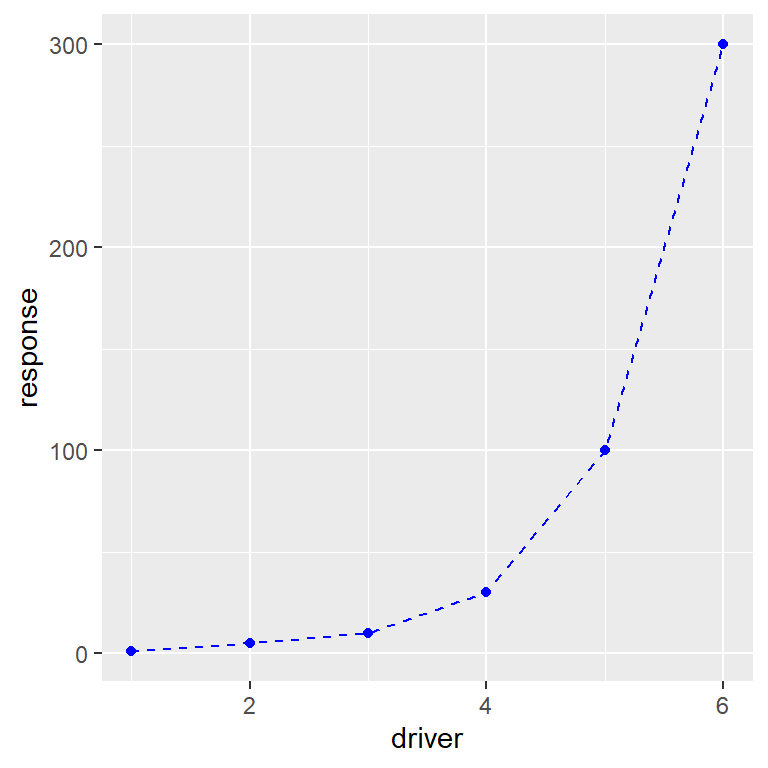
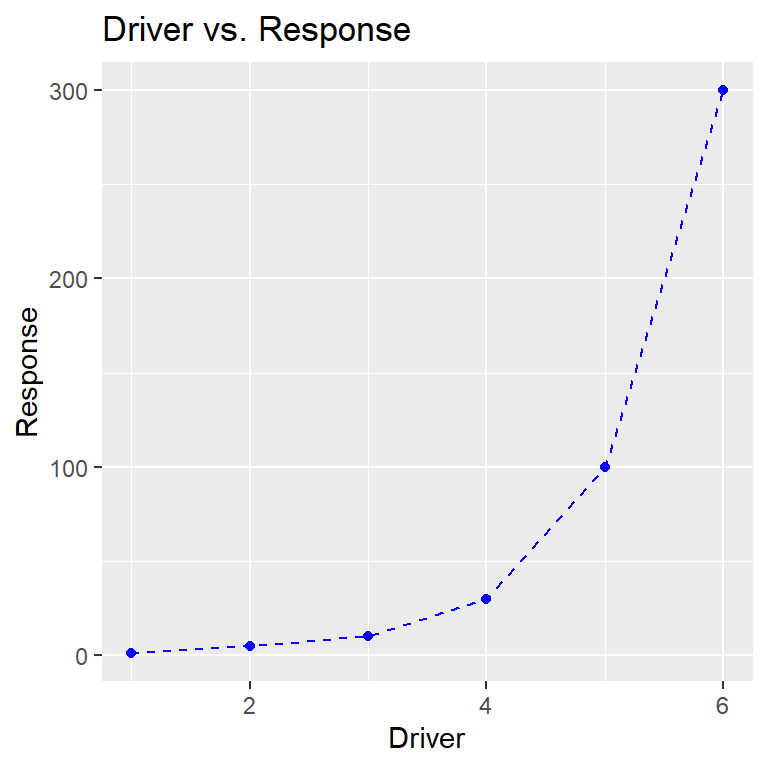
latest build.

diff --git a/docs/working-with-popular-packages.html b/docs/working-with-popular-packages.html
@@ -372,7 +372,7 @@ that is more clear and has far more examples <a href="https://ggplot2.tidyverse.
 <span id="cb565-5"><a href="working-with-popular-packages.html#cb565-5"></a><span class="co"># Make a scatter plot with x and y </span></span>
 <span id="cb565-6"><a href="working-with-popular-packages.html#cb565-6"></a><span class="kw">ggplot</span>(dat, <span class="kw">aes</span>(<span class="dt">x =</span> driver, <span class="dt">y =</span> response)) <span class="op">+</span><span class="st"> </span></span>
 <span id="cb565-7"><a href="working-with-popular-packages.html#cb565-7"></a><span class="st">  </span><span class="kw">geom_point</span>()</span></code></pre></div>
-<p><img src="Module1_files/figure-html/unnamed-chunk-560-1.png" width="384" style="display: block; margin: auto;" /></p>
+<p><img src="Module1_files/figure-html/unnamed-chunk-559-1.png" width="384" style="display: block; margin: auto;" /></p>
 <p>In the above command <code>ggplot2</code> uses the data frame <code>dat</code> and the aesthetics (<code>aes</code>)
 argument to map which columns go where. In this case we want the driver variable
 to be on the x-axis and the response variable to be on the y-axis. Finally
@@ -386,7 +386,7 @@ Note: <code>ggplot2</code> connects a series of arguments using <code>+</code> o
 <div class="sourceCode" id="cb566"><pre class="sourceCode r chunk-style"><code class="sourceCode r"><span id="cb566-1"><a href="working-with-popular-packages.html#cb566-1"></a><span class="kw">ggplot</span>(dat, <span class="kw">aes</span>(<span class="dt">x =</span> driver, <span class="dt">y =</span> response)) <span class="op">+</span><span class="st"> </span></span>
 <span id="cb566-2"><a href="working-with-popular-packages.html#cb566-2"></a><span class="st">  </span><span class="kw">geom_point</span>() <span class="op">+</span><span class="st"> </span></span>
 <span id="cb566-3"><a href="working-with-popular-packages.html#cb566-3"></a><span class="st">  </span><span class="kw">geom_line</span>()  <span class="co"># add lines to connect the points</span></span></code></pre></div>
-<img src="Module1_files/figure-html/unnamed-chunk-562-1.png" width="384" style="display: block; margin: auto;" />
+<img src="Module1_files/figure-html/unnamed-chunk-561-1.png" width="384" style="display: block; margin: auto;" />
 <div class="bonus">
 <p>
 The <code>geom</code> prefix on the <code>geom_point</code> and <code>geom_line</code> functions stands for <em>geometry</em>. <code>ggplot2</code> comes with many different types of geometries (see <a href="https://ggplot2.tidyverse.org/reference/">here</a> ), and some folks have created their <em>own</em> packages to add <em>even more</em> options!
@@ -396,13 +396,13 @@ The <code>geom</code> prefix on the <code>geom_point</code> and <code>geom_line<
 <div class="sourceCode" id="cb567"><pre class="sourceCode r chunk-style"><code class="sourceCode r"><span id="cb567-1"><a href="working-with-popular-packages.html#cb567-1"></a><span class="kw">ggplot</span>(dat, <span class="kw">aes</span>(<span class="dt">x =</span> driver, <span class="dt">y =</span> response)) <span class="op">+</span><span class="st"> </span></span>
 <span id="cb567-2"><a href="working-with-popular-packages.html#cb567-2"></a><span class="st">  </span><span class="kw">geom_point</span>(<span class="dt">color=</span><span class="st">&quot;blue&quot;</span>) <span class="op">+</span><span class="st">                   </span><span class="co"># make the points blue</span></span>
 <span id="cb567-3"><a href="working-with-popular-packages.html#cb567-3"></a><span class="st">  </span><span class="kw">geom_line</span>(<span class="dt">linetype=</span><span class="st">&quot;dashed&quot;</span>, <span class="dt">color=</span><span class="st">&quot;blue&quot;</span>)   <span class="co"># make the lines dashed and blue</span></span></code></pre></div>
-<p><img src="Module1_files/figure-html/unnamed-chunk-564-1.png" width="384" style="display: block; margin: auto;" />
+<p><img src="Module1_files/figure-html/unnamed-chunk-563-1.png" width="384" style="display: block; margin: auto;" />
 We can add a title and axis labels using the <code>labs</code> function:</p>
 <div class="sourceCode" id="cb568"><pre class="sourceCode r chunk-style"><code class="sourceCode r"><span id="cb568-1"><a href="working-with-popular-packages.html#cb568-1"></a><span class="kw">ggplot</span>(dat, <span class="kw">aes</span>(<span class="dt">x =</span> driver, <span class="dt">y =</span> response)) <span class="op">+</span><span class="st"> </span></span>
 <span id="cb568-2"><a href="working-with-popular-packages.html#cb568-2"></a><span class="st">  </span><span class="kw">geom_point</span>(<span class="dt">color=</span><span class="st">&quot;blue&quot;</span>) <span class="op">+</span><span class="st"> </span></span>
 <span id="cb568-3"><a href="working-with-popular-packages.html#cb568-3"></a><span class="st">  </span><span class="kw">geom_line</span>(<span class="dt">linetype=</span><span class="st">&quot;dashed&quot;</span>, <span class="dt">color=</span><span class="st">&quot;blue&quot;</span>) <span class="op">+</span><span class="st"> </span></span>
 <span id="cb568-4"><a href="working-with-popular-packages.html#cb568-4"></a><span class="st">  </span><span class="kw">labs</span>(<span class="dt">title=</span><span class="st">&quot;Driver vs. Response&quot;</span>, <span class="dt">x=</span><span class="st">&quot;Driver&quot;</span>, <span class="dt">y=</span><span class="st">&quot;Response&quot;</span>)   <span class="co"># add labels to the plot</span></span></code></pre></div>
-<p><img src="Module1_files/figure-html/unnamed-chunk-565-1.png" width="384" style="display: block; margin: auto;" /></p>
+<p><img src="Module1_files/figure-html/unnamed-chunk-564-1.png" width="384" style="display: block; margin: auto;" /></p>
 <p>Finally, we can use one of the included <code>ggplot2</code> themes to change how the plot looks, using the <code>theme_set</code> function:</p>
 <div class="sourceCode" id="cb569"><pre class="sourceCode r chunk-style"><code class="sourceCode r"><span id="cb569-1"><a href="working-with-popular-packages.html#cb569-1"></a><span class="kw">theme_set</span>(<span class="kw">theme_minimal</span>())   <span class="co"># change the theme</span></span>
 <span id="cb569-2"><a href="working-with-popular-packages.html#cb569-2"></a></span>
@@ -410,7 +410,7 @@ We can add a title and axis labels using the <code>labs</code> function:</p>
 <span id="cb569-4"><a href="working-with-popular-packages.html#cb569-4"></a><span class="st">  </span><span class="kw">geom_point</span>(<span class="dt">color=</span><span class="st">&quot;blue&quot;</span>) <span class="op">+</span><span class="st"> </span></span>
 <span id="cb569-5"><a href="working-with-popular-packages.html#cb569-5"></a><span class="st">  </span><span class="kw">geom_line</span>(<span class="dt">linetype=</span><span class="st">&quot;dashed&quot;</span>, <span class="dt">color=</span><span class="st">&quot;blue&quot;</span>) <span class="op">+</span><span class="st"> </span></span>
 <span id="cb569-6"><a href="working-with-popular-packages.html#cb569-6"></a><span class="st">  </span><span class="kw">labs</span>(<span class="dt">title=</span><span class="st">&quot;Driver vs. Response&quot;</span>, <span class="dt">x=</span><span class="st">&quot;Driver&quot;</span>, <span class="dt">y=</span><span class="st">&quot;Response&quot;</span>)</span></code></pre></div>
-<p><img src="Module1_files/figure-html/unnamed-chunk-566-1.png" width="384" style="display: block; margin: auto;" /></p>
+<p><img src="Module1_files/figure-html/unnamed-chunk-565-1.png" width="384" style="display: block; margin: auto;" /></p>
 <p>Here’s another example using the <code>mtcars</code> data frame, where we color the points based on their fuel economy (<em>mpg</em>) and annotate a few cars.</p>
 <div class="sourceCode" id="cb570"><pre class="sourceCode r chunk-style"><code class="sourceCode r"><span id="cb570-1"><a href="working-with-popular-packages.html#cb570-1"></a>mtcars<span class="op">$</span>car &lt;-<span class="st"> </span><span class="kw">row.names</span>(mtcars)  <span class="co"># turn row names into a column so we can label with them</span></span>
 <span id="cb570-2"><a href="working-with-popular-packages.html#cb570-2"></a></span>
@@ -419,7 +419,7 @@ We can add a title and axis labels using the <code>labs</code> function:</p>
 <span id="cb570-5"><a href="working-with-popular-packages.html#cb570-5"></a><span class="st">  </span><span class="kw">geom_text</span>(<span class="dt">color=</span><span class="st">&quot;black&quot;</span>, <span class="dt">hjust=</span><span class="dv">0</span>, <span class="dt">nudge_x=</span><span class="dv">5</span>, <span class="dt">alpha=</span><span class="fl">0.8</span>, <span class="dt">size=</span><span class="dv">2</span>) <span class="op">+</span><span class="st">   </span><span class="co"># annotate each car</span></span>
 <span id="cb570-6"><a href="working-with-popular-packages.html#cb570-6"></a><span class="st">  </span><span class="kw">scale_color_viridis_c</span>(<span class="dt">option=</span><span class="st">&quot;D&quot;</span>) <span class="op">+</span><span class="st">                                 </span><span class="co"># change color scale to use</span></span>
 <span id="cb570-7"><a href="working-with-popular-packages.html#cb570-7"></a><span class="st">  </span><span class="kw">labs</span>(<span class="dt">title=</span><span class="st">&quot;Motor Trend Car Comparison&quot;</span>, <span class="dt">x=</span><span class="st">&quot;Horsepower&quot;</span>, <span class="dt">y=</span><span class="st">&quot;Displacement&quot;</span>, <span class="dt">color=</span><span class="st">&quot;MPG&quot;</span>)</span></code></pre></div>
-<p><img src="Module1_files/figure-html/unnamed-chunk-567-1.png" width="768" style="display: block; margin: auto;" /></p>
+<p><img src="Module1_files/figure-html/unnamed-chunk-566-1.png" width="768" style="display: block; margin: auto;" /></p>
 <p>This is only scratching the surface of what <code>ggplot2</code> can do, but hopefully this introduction is enough to hint at the possibilities.
 You can find many more examples at <a href="https://www.r-graph-gallery.com/">The R Graph Gallery</a>.</p>
 <div class="progress">

diff --git a/docs/writing-functions.html b/docs/writing-functions.html
@@ -378,7 +378,7 @@ Here’s another example, the <code>mean</code> function:</p>
 <span id="cb509-2"><a href="writing-functions.html#cb509-2"></a>mean</span></code></pre></div>
 <pre class="output-style"><code>function (x, ...) 
 UseMethod(&quot;mean&quot;)
-&lt;bytecode: 0x0000000016632e30&gt;
+&lt;bytecode: 0x0000000016622e30&gt;
 &lt;environment: namespace:base&gt;</code></pre>
 <p>This example doesn’t seem to have as much R code in it, so where is the code for this function?
 The answer is that both <code>sort</code> and <code>mean</code> (and many other R functions) are written in a <em>different</em> programming language, C, which isn’t human readable once it’s compiled.
@@ -499,7 +499,7 @@ Here’s a barplot for Colorado in the 45-54 age group:</p>
 <span id="cb531-6"><a href="writing-functions.html#cb531-6"></a>        <span class="dt">names.arg=</span>covid2<span class="op">$</span>Sex,    <span class="co"># specify bar names</span></span>
 <span id="cb531-7"><a href="writing-functions.html#cb531-7"></a>        <span class="dt">main=</span><span class="st">&quot;Sex Comparison: Colorado 45-54 years&quot;</span>,  <span class="co"># title</span></span>
 <span id="cb531-8"><a href="writing-functions.html#cb531-8"></a>        <span class="dt">ylab=</span><span class="st">&quot;COVID-19 Deaths&quot;</span>)  <span class="co"># y label</span></span></code></pre></div>
-<p><img src="Module1_files/figure-html/unnamed-chunk-529-1.png" width="576" style="display: block; margin: auto;" /></p>
+<p><img src="Module1_files/figure-html/unnamed-chunk-528-1.png" width="576" style="display: block; margin: auto;" /></p>
 <p>Suppose we wanted to view this information for more states and age groups.
 Rather than repeat the above code each time, let’s put it in a function:</p>
 <div class="sourceCode" id="cb532"><pre class="sourceCode r chunk-style"><code class="sourceCode r"><span id="cb532-1"><a href="writing-functions.html#cb532-1"></a><span class="co"># create a function called plot_fm with two arguments: state and ages</span></span>
@@ -513,13 +513,13 @@ Rather than repeat the above code each time, let’s put it in a function:</p>
 <span id="cb532-9"><a href="writing-functions.html#cb532-9"></a>}</span></code></pre></div>
 <p>Now let’s try out the code on a few states and age groups:</p>
 <div class="sourceCode" id="cb533"><pre class="sourceCode r chunk-style"><code class="sourceCode r"><span id="cb533-1"><a href="writing-functions.html#cb533-1"></a><span class="kw">plot_fm</span>(<span class="st">&quot;Colorado&quot;</span>, <span class="st">&quot;45-54 years&quot;</span>)</span></code></pre></div>
-<p><img src="Module1_files/figure-html/unnamed-chunk-532-1.png" width="576" style="display: block; margin: auto;" /></p>
+<p><img src="Module1_files/figure-html/unnamed-chunk-531-1.png" width="576" style="display: block; margin: auto;" /></p>
 <pre class="output-style"><code>NULL</code></pre>
 <div class="sourceCode" id="cb535"><pre class="sourceCode r chunk-style"><code class="sourceCode r"><span id="cb535-1"><a href="writing-functions.html#cb535-1"></a><span class="kw">plot_fm</span>(<span class="st">&quot;Texas&quot;</span>, <span class="st">&quot;65-74 years&quot;</span>)</span></code></pre></div>
-<p><img src="Module1_files/figure-html/unnamed-chunk-533-1.png" width="576" style="display: block; margin: auto;" /></p>
+<p><img src="Module1_files/figure-html/unnamed-chunk-532-1.png" width="576" style="display: block; margin: auto;" /></p>
 <pre class="output-style"><code>NULL</code></pre>
 <div class="sourceCode" id="cb537"><pre class="sourceCode r chunk-style"><code class="sourceCode r"><span id="cb537-1"><a href="writing-functions.html#cb537-1"></a><span class="kw">plot_fm</span>(<span class="st">&quot;New York&quot;</span>, <span class="st">&quot;85 years and over&quot;</span>)</span></code></pre></div>
-<p><img src="Module1_files/figure-html/unnamed-chunk-534-1.png" width="576" style="display: block; margin: auto;" /></p>
+<p><img src="Module1_files/figure-html/unnamed-chunk-533-1.png" width="576" style="display: block; margin: auto;" /></p>
 <pre class="output-style"><code>NULL</code></pre>
 <div class="bonus">
 <p>

diff --git a/docs/workspace-setup.html b/docs/workspace-setup.html
@@ -396,8 +396,8 @@ This will reduce the amount of memory that is taken up</p>
 <div class="sourceCode" id="cb8"><pre class="sourceCode r chunk-style"><code class="sourceCode r"><span id="cb8-1"><a href="workspace-setup.html#cb8-1"></a><span class="kw">rm</span>(<span class="dt">list=</span><span class="kw">ls</span>())  <span class="co"># Clear everything in your workspace</span></span>
 <span id="cb8-2"><a href="workspace-setup.html#cb8-2"></a><span class="kw">gc</span>()           <span class="co"># perform garbage collection</span></span></code></pre></div>
 <pre class="output-style"><code>          used (Mb) gc trigger (Mb) max used (Mb)
-Ncells  821856 43.9    1579275 84.4  1217757 65.1
-Vcells 1468908 11.3    8388608 64.0  2060265 15.8</code></pre>
+Ncells  821827 43.9    1579191 84.4  1217760 65.1
+Vcells 1468832 11.3    8388608 64.0  2060901 15.8</code></pre>
 <p>You might also want to clear the R console, which you can do by placing your cursor in the R console and typing <code>&lt;control&gt; l</code> (careful! that’s a lowercase L).</p>
 <div class="bonus">
 <p>

diff --git a/docs/performing-effective-data-analysis.html b/docs/performing-effective-data-analysis.html
@@ -306,11 +306,6 @@ code span.wa { color: #60a0b0; font-weight: bold; font-style: italic; } /* Warni
             <section class="normal" id="section-">
 <div id="performing-effective-data-analysis" class="section level1">
 <h1><span class="header-section-number">Chapter 6</span> Performing Effective Data Analysis</h1>
-<div class="caution">
-<p>
-This chapter is still under construction, sections are marked if incomplete.
-</p>
-</div>
 <blockquote>
 <p>“Learning to write programs stretches your mind, and helps you think better, creates a way of thinking about things that I think is helpful in all domains.” —Bill Gates</p>
 </blockquote>

diff --git a/docs/index.html b/docs/index.html
@@ -307,7 +307,7 @@ code span.wa { color: #60a0b0; font-weight: bold; font-style: italic; } /* Warni
 <div id="header">
 <h1 class="title">R Module 1</h1>
 <p class="author"><em>Alex Fout<a href="#fn1" class="footnote-ref" id="fnref1"><sup>1</sup></a></em></p>
-<p class="date"><em>04 Aug, 2020, 01:12 PM</em></p>
+<p class="date"><em>04 Aug, 2020, 01:25 PM</em></p>
 </div>
 <div id="welcome" class="section level1">
 <h1><span class="header-section-number">Chapter 1</span> Welcome!</h1>
